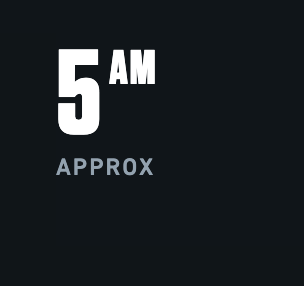
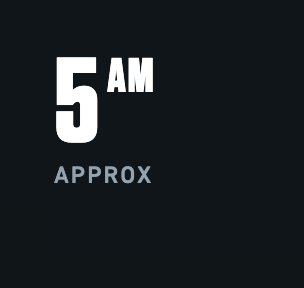
Completed Second Page Of Events

Changed region(s): [[0.1776, 0.1678, 0.5329, 0.5035], [0.1776, 0.5315, 0.5033, 0.6434]]

diff --git a/pages/event2.html b/pages/event2.html
@@ -1,13 +1,62 @@
 <!DOCTYPE html>
 <html>
     <head>
-        <link rel="stylesheet" href="/css/event2.css">
-        <title> Anime Conventions </title>
+        <link rel="stylesheet" href="/css/event2.css" />
     </head>
 
     <body>
+        <h1 class="anime-expo">UPCOMING ANIME AND MANGA CONVENTIONS</h1>
+        <hr />
+        <dl>
+            <dt>ANIME MATSURI 2023</dt>
+            <br />
+            <dt>DATE : SEPTEMBER 28 - SEPTEMBER 30</dt>
 
-        
+            <div class="image1"><img src="/assets/anisuri.webp" height="270px" width="500px" /></div>
+
+            <route-to href="#cart"> <button class="cart">Add to Cart</button> </route-to>
+
+            <br />
+            <hr />
+
+            <dt>COSWORLD MALAYSIA</dt>
+            <br />
+            <dt>DATE : OCTOBER 6 - OCTOBER 8</dt>
+
+            <div class="image1"><img src="/assets/cosworld.jpg" height="300px" width="500px" /></div>
+
+            <route-to href="#cart"> <button class="cart">Add to Cart</button> </route-to>
+
+            <br />
+            <hr />
+
+            <dt>ANIME FESTIVAL ASIA</dt>
+            <br />
+            <dt>DATE : NOVEMBER 24 - NOVEMBER 26</dt>
+
+            <div class="image1"><img src="/assets/anifest.webp" height="240px" width="500px" /></div>
+
+            <route-to href="#cart"> <button class="cart">Add to Cart</button> </route-to>
+
+            <br />
+            <hr />
+
+            <dt>COMIC FIESTA 2023</dt>
+            <br />
+            <dt>DATE : DECEMBER 23 - DECEMBER 24</dt>
+
+            <div class="image1"><img src="/assets/comicimg.jpeg" height="250px" width="500px" /></div>
+
+            <route-to href="#cart"> <button class="cart">Add to Cart</button> </route-to>
+
+            <br />
+            <hr />
+        </dl>
+
+        <div class="footer">
+            &copy; 2023 Shusei Gate Group | <a href="#">Home</a> | <a href="#user-home"> Events </a> |
+            <a href="#about">About Us</a> | <a href="#contact">Contact Us</a>
+        </div>
     </body>
-
 </html>
+

diff --git a/css/event2.css b/css/event2.css
@@ -1,0 +1,62 @@
+/* Title */
+
+.anime-expo {
+    font-size: 45px;
+    color: #f6ff00;
+    text-align: center;
+    background-image: url('/assets/aniban.webp');
+    background-position: 0% 8%;
+    background-size: cover;
+    height: 100px;
+    margin: 0px 0px 30px 0px;
+    padding-top: 30px;
+    text-shadow: 0 0 7px #000000, 0 0 10px #000000, 0 0 21px #000000, 0 0 42px rgb(0, 0, 0), 0 0 82px rgb(0, 0, 0),
+        0 0 92px rgb(0, 0, 0), 0 0 102px rgb(0, 0, 0), 0 0 151px rgb(0, 0, 0);
+}
+
+/* Display Name of Events and Image */
+
+dt {
+    display: flex;
+    float: right;
+    clear: both;
+    font-size: 25px;
+    color: rgb(0, 255, 217);
+    margin: 40px 100px 10px 0px;
+}
+
+.image1 {
+    display: flex;
+    margin-left: 150px;
+}
+
+/* Add to Cart Button */
+
+.cart {
+    padding: 10px 20px;
+    background-color: #f700ff;
+    color: #ffff00;
+    border-color: rgb(255, 255, 255);
+    border-radius: 100px;
+    margin-left: 970px;
+    cursor: pointer;
+    font-size: 17px;
+}
+
+/* Footer Styles */
+
+.footer {
+    text-align: center;
+    padding: 15px;
+    font-size: 17px;
+    color: #00fff7;
+    overflow: hidden;
+}
+
+/* Style for footer links */
+.footer a {
+    color: #00fff7;
+    text-decoration: none;
+    margin: 0 10px;
+}
+

diff --git a/css/event1.css b/css/event1.css
@@ -1,10 +1,3 @@
-body {
-    font-family: Arial, Helvetica, sans-serif;
-    margin: 0;
-    padding: 0;
-    background-color: #f0f0f0;
-}
-
 /* For Valorant */
 
 h1.title {
